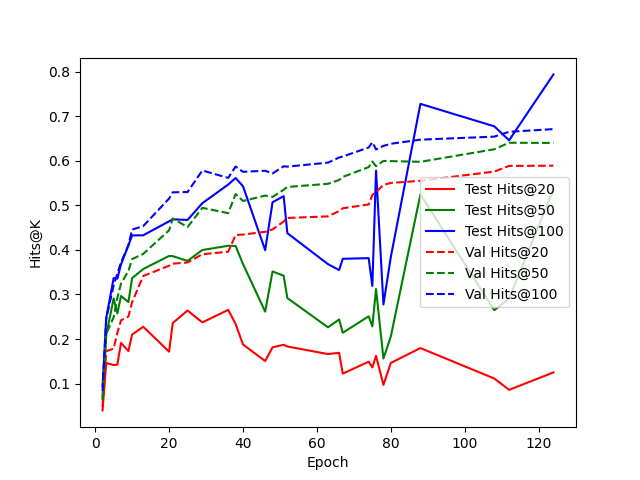
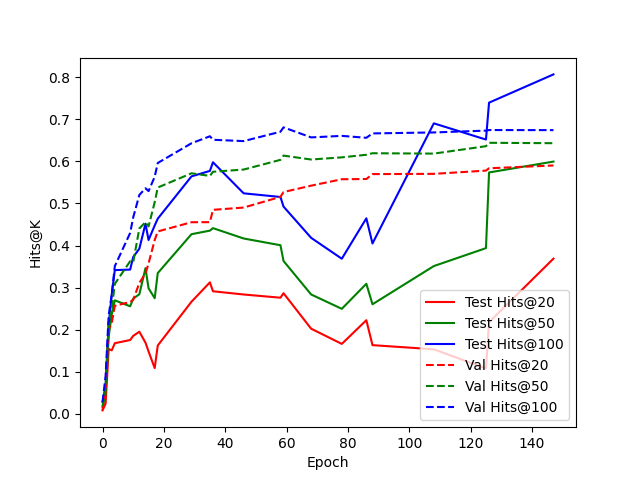
more graphsage results

diff --git a/experiments/train_test.py b/experiments/train_test.py
@@ -5,7 +5,9 @@ sys.path.append(os.getcwd())
 
 from models.GraphSAGE import GraphSAGE
 from models.Neighborhood import CommonNeighbor, AdamicAdar, RuntimeCN
-from models.RandomWalk import Node2Vec
+
+# NOTE: Need to add this to the conda env
+# from models.RandomWalk import Node2Vec
 
 from ogb.linkproppred import Evaluator
 
@@ -16,6 +18,8 @@ import networkx as nx
 from dataset.utils import load_data
 import time
 
+TRAIN = False
+
 
 model_types = [
     (GraphSAGE, "graphsage"),
@@ -25,6 +29,9 @@ model_types = [
     # (Node2Vec, "node2vec")
 ]
 
+perturb_list = [("remove", 0), ("remove", 0.01), ("remove", 0.1), ("remove", 0.25), ("remove", 0.5),
+                ("add", 0.01), ("add", 0.1), ("add", 0.25), ("add", 0.5), ("add", 1)]
+
 def main():
 
     perturb_dir = "dataset/perturbation"
@@ -32,10 +39,12 @@ def main():
     _, split_edge_list = load_data()
 
     for perturb_type in ["random"]:
+        for change, prop in perturb_list:
+
         # for change in ["remove", "add"]:
         #     for prop in [0.25, 0.1, 0.01]:
-        for change in ["add"]:
-            for prop in [0.25]:
+        # for change in ["add"]:
+        #     for prop in [0.5]:
             
                 data_path = perturb_dir + f"/{perturb_type}_{change}_{prop}.csv"
                 G, _ = load_data(perturbation_path=data_path)
@@ -46,17 +55,46 @@ def main():
                     out_path = f"results/{perturb_type}/{change}/{prop}/"
                     os.makedirs(out_path, exist_ok=True)
                     
-                    print(f"==> Training {name}: {perturb_type} {change} {prop}")
                     model = LinkPredictor()
 
-                    if name == "graphsage":
-                        model.train(G, val_edges=split_edge_tensor["valid"], out_path=out_path)
-                    else:
-                        model.train(G)
+                    if TRAIN:
+                        print(f"==> Training {name}: {perturb_type} {change} {prop}")
+                        if name == "graphsage":
+                            model.train(G, val_edges=split_edge_tensor["valid"], out_path=out_path)
+                            
+                            # NOTE: Load best performing model from gnn_trained directory and use
+                            #       that for testing
+                            load_path = f"{out_path}gnn_trained"
+                            print("=>", load_path)
+                            if not os.path.isdir(f"{load_path}"):
+                                raise 
+                                continue
+                            path_list = os.listdir(load_path)
+                            # Use string formatting to get the latest epoch
+                            path_list.sort(key = lambda pth: int(pth[2:-7]))
+                            print("\tBest model:", path_list[-1])
+                            model.load_model(f"{load_path}/{path_list[-1]}")
+                            model.save_model(out_path)
 
-                    model.save_model(out_path)
+                        else:
+                            model.train(G)
+                        model.save_model(out_path)
 
                     print(f"==> Testing")
+                    if name == "graphsage":
+                        # TODO: Get the best model from the gnn_trained directory
+                        load_path = f"{out_path}gnn_trained"
+                        print("=>", load_path)
+                        if not os.path.isdir(f"{load_path}"):
+                            print("\tcontinue...")
+                            continue
+                        path_list = os.listdir(load_path)
+                        # Use string formatting to get the latest epoch
+                        path_list.sort(key = lambda pth: int(pth[2:-7]))
+                        print("\tBest model:", path_list[-1])
+                        model.load_model(f"{load_path}/{path_list[-1]}")
+                        model.save_model(out_path)
+
                     model.load_model(out_path)
 
                     # TODO: Make train/val/test format independent of model type
@@ -106,9 +144,9 @@ def main():
                         f.write("On test set, model achieves:\n")
                         f.write(str(results))
 
-                    end = time.time()
+    end = time.time()
 
-                    print(f"\tScript took {round((end - start) / 60, 2)} minutes to run")
+    print(f"\tScript took {round((end - start) / 60, 2)} minutes to run")
 
 
 

diff --git a/experiments/test_graphsage.py b/experiments/test_graphsage.py
@@ -25,12 +25,12 @@ Sandbox for GraphSAGE link prediction
 def main():
     start = time.time()
 
-    # if TRAIN:
-    #     train()
-    # else:
-    #     load_test()
+    if TRAIN:
+        train()
+    else:
+        load_test()
 
-    get_results()
+    # get_results()
 
     end = time.time()
 
@@ -41,8 +41,9 @@ def get_results():
     _, split_edge = load_data()
 
     
-    eps = [2, 3, 5, 6, 7, 9, 10, 13, 20, 21, 25, 29, 36, 38, 40, 46, 48, 51, 52, 63, 66, 67, \
-               74, 75, 76, 78, 80, 88, 108, 112, 124]
+    # eps = [2, 3, 5, 6, 7, 9, 10, 13, 20, 21, 25, 29, 36, 38, 40, 46, 48, 51, 52, 63, 66, 67, \
+    #            74, 75, 76, 78, 80, 88, 108, 112, 124]
+    eps = []
     results_val = {
             'Hits@20': [],
             'Hits@50': [],
@@ -54,9 +55,13 @@ def get_results():
             'Hits@100': []
             }
 
-    for ep in eps:
-        model_path = f"results/random/add/0.25/gnn_training/ep{ep}_gnn.pt"
+    for ep in range(200):
+        model_path = f"results/random/remove/0/gnn_trained/ep{ep}_gnn.pt"
         model = GraphSAGE()
+        if not os.path.isfile(model_path):
+            continue
+        
+        eps.append(ep)
         model.load_model(model_path)
 
         pos_valid_preds = model.score_edges(split_edge["valid"]["edge"])
@@ -139,7 +144,7 @@ def load_test():
     model = GraphSAGE()
 
     print("=> Loading model...")
-    model_dir = "results/random/add/0.25/gnn_training/ep124_gnn.pt"
+    model_dir = "results/random/remove/0/gnn_trained/ep147_gnn.pt"
     model.load_model(model_dir)
     
     print("=> Testing model")

diff --git a/models/GraphSAGE.py b/models/GraphSAGE.py
@@ -1,5 +1,6 @@
 from models.LinkPredModel import LinkPredictor
 import numpy as np
+import os
 
 class GraphSAGE(LinkPredictor):
 
@@ -25,6 +26,8 @@ class GraphSAGE(LinkPredictor):
         
         num_nodes = graph.number_of_nodes()
         device = torch.device('cuda' if torch.cuda.is_available() else 'cpu')
+        if torch.cuda.is_available():
+            print("=> Using cuda")
         optim_wd = 0
         self.batch_size = batch_size
 
@@ -112,6 +115,7 @@ class GraphSAGE(LinkPredictor):
             if (e+1)%10 == 0:
                 print(result)
             if val_performance > max_val:
+                os.makedirs(f"{out_path}/gnn_trained/", exist_ok=True)
                 self.save_model(model_path=f"{out_path}/gnn_trained/ep{e}_")
                 max_val = val_performance
                 print("=> max val =", max_val)

diff --git a/dataset/utils.py b/dataset/utils.py
@@ -27,7 +27,6 @@ def load_data(test_as_tensor=False, perturbation_path=None):
     # Add back all nodes that were disconnected during perturbation
     for node in range(NUM_NODES):
         if not G.has_node(node):
-            print(node, "not in graph")
             G.add_node(node)
         
 
